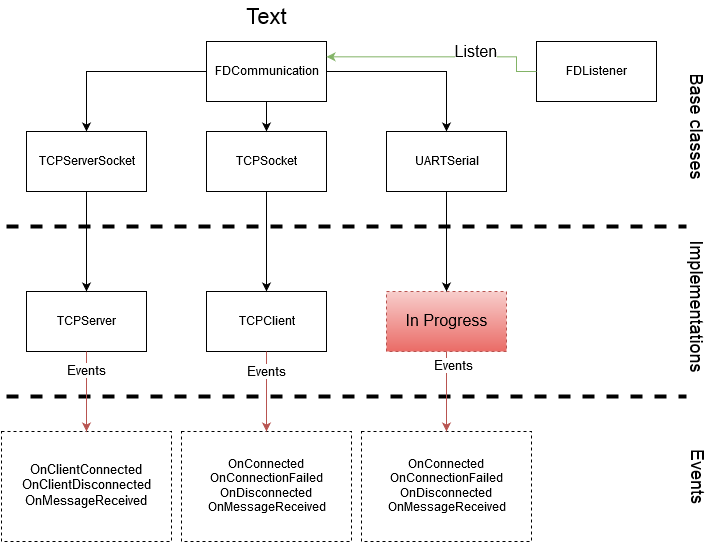
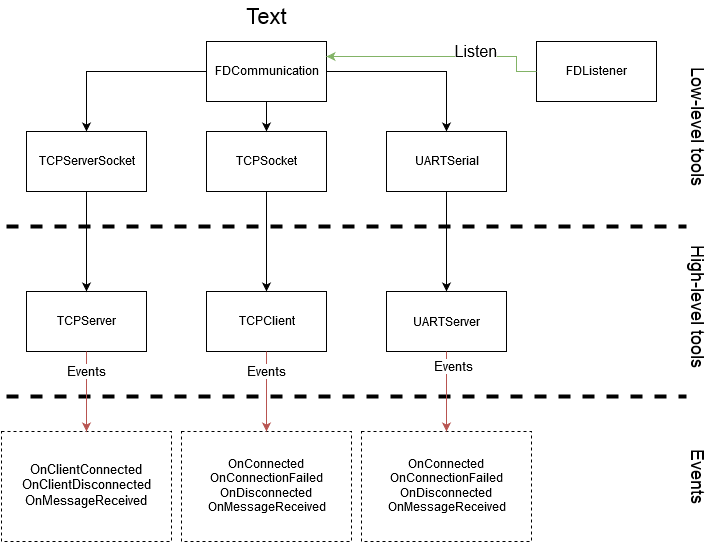
# Completed documentation

diff --git a/README.md b/README.md
@@ -16,14 +16,14 @@ This C++ library provide tools to communicate with TCP and UART protocols on an 
 
 * **TCPSocket** : This one is for TCP Client creation. It provides the *connect* function.
 
-* **UARTSerial** : This one is for UART communication. It allows you to *open* a serial device. (In progress)
+* **UARTSerial** : This one is for UART communication. It allows you to *open* a serial device.
 
 ## High-level communication tools
 
-The library provides high-level communication tools for UART and TCP protocols hiding the low-level stack and allowing an event-based development :
+The library provides high-level communication tools for UART and TCP protocols hiding the low-level stack and allowing an event-based development. Each of this classes contains a declaration of an **Events** pure abstract class (interface) that lists all the events that can be launched. These events can be implemented in another class and linked with the *setEvents* function.
 
-* **TCPServer** : In progress
+* **TCPServer** : A running TCP server can be create with this class. It needs to be linked to a FDListener with *setFDListener* to works properly. It can be launched using the *launch* function and run by using *run* after the FDListener's function *listen*.
 
-* **TCPClient** : In progress
+* **TCPClient** : This class implement a threaded TCP client. Use *launch* to connect and run the client.
 
-* **UARTServer** : In progress
+* **UARTServer** : The **UARTServer** works the same way the **TCPServer** works. The only difference is that you need to specify a device's name rather than a listened port and a backlog number.
